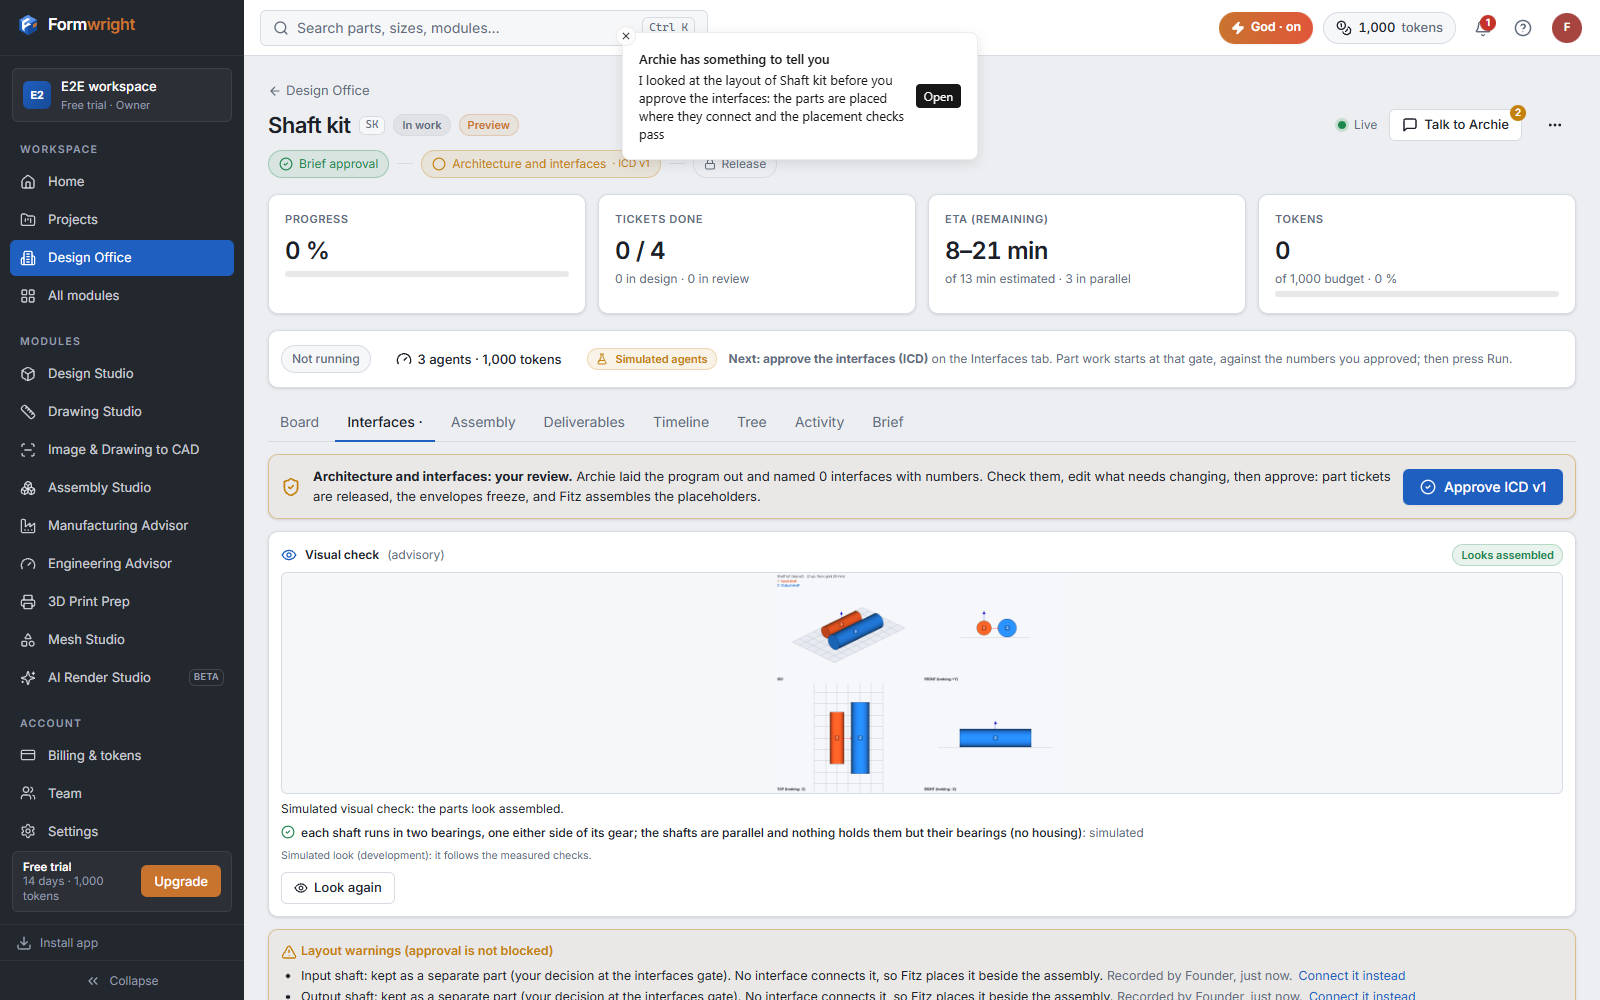
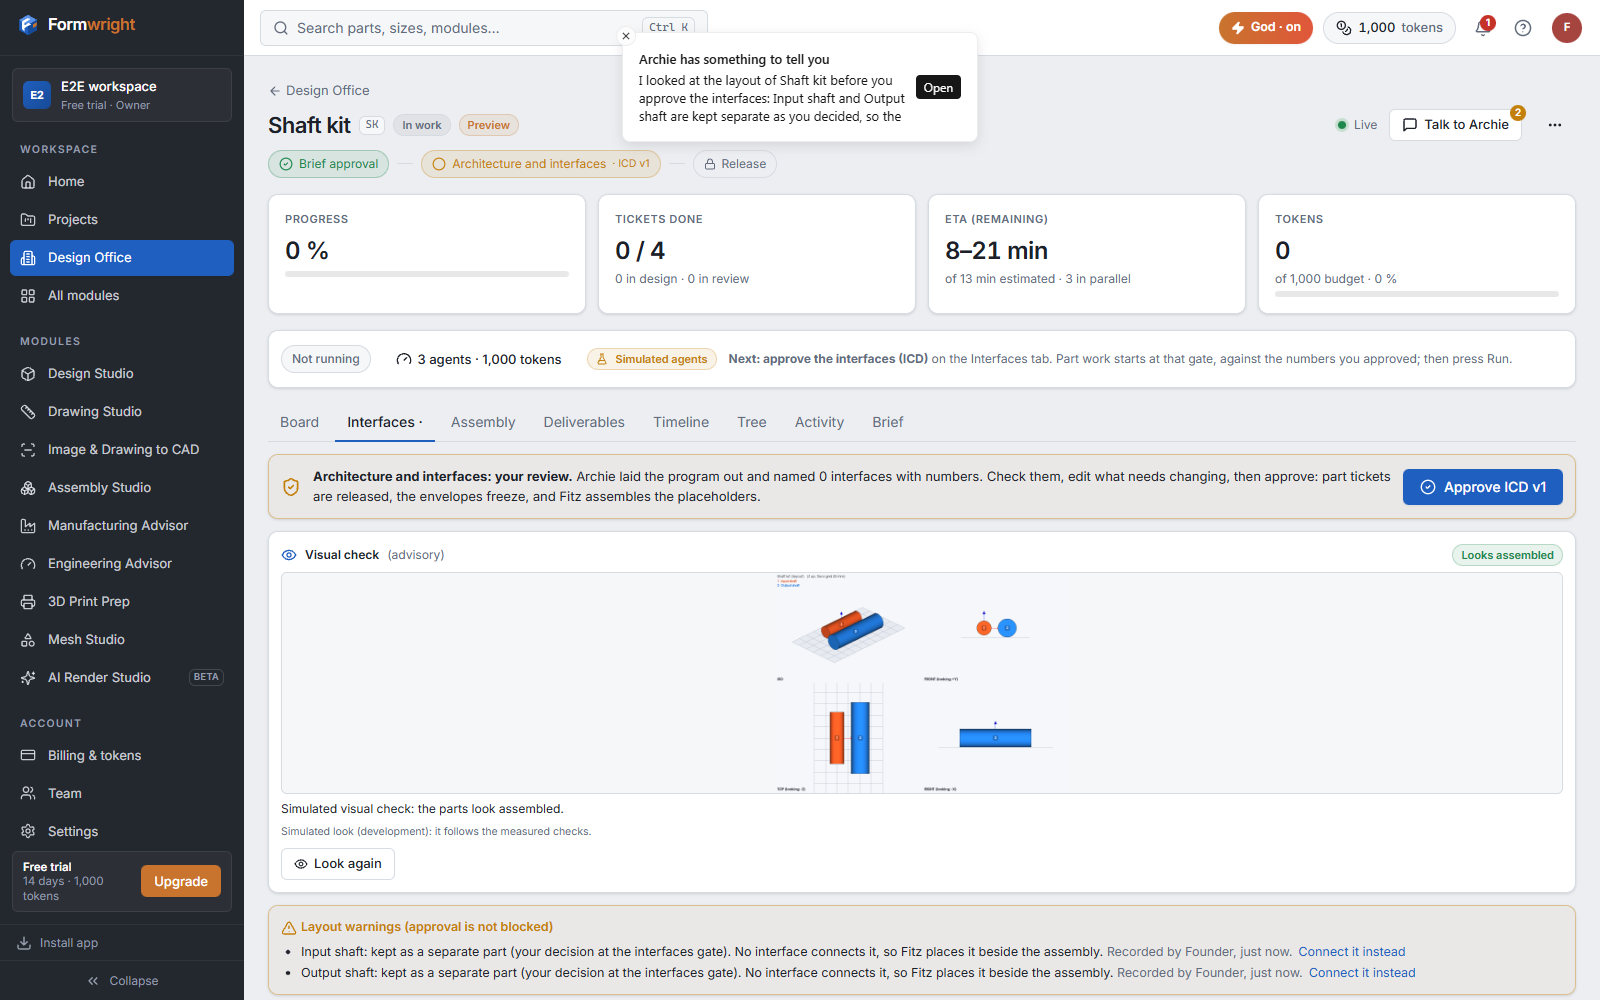
Office polish: no swap clash against a mating gear's placeholder envelope; first build and gates-pass milestones both announced (flaky on main); Gage test on the agent path after office-direct; report

Changed region(s): [[0.1562, 0.806, 1.0, 1.0], [0.375, 0.062, 0.625, 0.155]]

diff --git a/src/aicad/office/program_assembly.py b/src/aicad/office/program_assembly.py
@@ -384,6 +384,7 @@ async def swap(aroot: Path, org_id: str, prog: dict[str, Any], updates: dict[str
                 keep = [c for c in clashes if _item_of(final, c["a"]) not in items and _item_of(final, c["b"]) not in items]
                 try:
                     fresh = await aservice.stack_clashes(aroot, org_id, final, ids)
+                    fresh = [c for c in fresh if not _envelope_mesh(final, ifaces, c)]
                     clashes = keep + [{**c, "volume_mm3": round(float(c["volume_mm3"]), 3)} for c in fresh]
                 except aservice.WorkerError:
                     checked = False
@@ -471,6 +472,21 @@ def summarize(parts: dict[str, dict[str, Any]], final: dict[str, Any] | None,
         s += f", {stacks} fastener stack{'s' if stacks != 1 else ''}"
     _ = clashes
     return s + "."
+
+
+def _envelope_mesh(adoc: dict[str, Any], ifaces: list[dict[str, Any]], c: dict[str, Any]) -> bool:
+    """A real gear against the *placeholder* of the gear it meshes with: the placeholder is the tip-circle envelope,
+    so the real teeth always overlap it. That is not a clash (it says nothing about the real mesh, which the
+    whole-program check measures once both are real); reporting it sent a correct pinion back to its designer when
+    it happened to be swapped in before its gear."""
+    by = {i["id"]: i for i in adoc["instances"]}
+    a, b = by.get(c["a"]), by.get(c["b"])
+    if a is None or b is None:
+        return False
+    ia, ib = (a.get("office") or {}).get("item"), (b.get("office") or {}).get("item")
+    if not any(f["kind"] == "gear_mesh" and {f["a"]["item"], f["b"]["item"]} == {ia, ib} for f in ifaces):
+        return False
+    return str(a.get("part", "")).startswith("h_") != str(b.get("part", "")).startswith("h_")
 
 
 def _item_of(adoc: dict[str, Any] | None, iid: str) -> str | None:

diff --git a/src/aicad/office/service.py b/src/aicad/office/service.py
@@ -502,13 +502,15 @@ def sync_studio(root: Path, doc: dict[str, Any], info: dict[str, dict[str, Any]]
             changed = True
             old_ms = before[0]
             t["progress"] = estimates.progress_of(t["milestones"])
+            # both can arrive in one sync (the build passed at once): say them in the order they happened (the
+            # first build was silently skipped before, a flaky test on main)
+            if "first_build" in ms and "first_build" not in old_ms:
+                emit(root, doc, "ticket.milestone", f"{_label(t)}: first build in the Design Studio "
+                     f"({t['progress']} %).", STUDIO_ACTOR, t["id"], milestone="first_build", reached=True,
+                     progress=t["progress"])
             if "gates_pass" in ms and "gates_pass" not in old_ms:
                 emit(root, doc, "ticket.milestone", f"{_label(t)}: the latest build passes the gating checks "
                      f"({t['progress']} %).", STUDIO_ACTOR, t["id"], milestone="gates_pass", reached=True,
-                     progress=t["progress"])
-            elif "first_build" in ms and "first_build" not in old_ms:
-                emit(root, doc, "ticket.milestone", f"{_label(t)}: first build in the Design Studio "
-                     f"({t['progress']} %).", STUDIO_ACTOR, t["id"], milestone="first_build", reached=True,
                      progress=t["progress"])
             elif "gates_pass" in old_ms and "gates_pass" not in ms:
                 emit(root, doc, "ticket.milestone", f"{_label(t)}: the latest build fails a gating check "

diff --git a/tests/test_office_phase6_layout.py b/tests/test_office_phase6_layout.py
@@ -172,7 +172,8 @@ def test_gearbox_program_assembles_with_no_clash(office: Any) -> None:  # noqa: 
     assert v["status"] == "complete", [(t["title"], t["column"], (t.get("run") or {}).get("status")) for t in v["tickets"]]
     st = v["assembly"]
     assert st["clashes"] == [] and not any(p["kind"] == "placeholder" for p in st["parts"].values()), st.get("summary")
-    assert st["summary"].startswith("7 real parts and 0 placeholders") and st["summary"].endswith("0 clashes.")
+    # the clash count has one source (program_assembly.clash_status), never the integration summary
+    assert st["summary"].startswith("7 real parts and 0 placeholders") and "clash" not in st["summary"]
     aroot = _aroot(c)
     final = astore.load(aroot, st["final"])
     # every instance of the final assembly, its own sub-assemblies' included, in the program frame

diff --git a/tests/test_office_orchestrator.py b/tests/test_office_orchestrator.py
@@ -327,7 +327,10 @@ def test_concurrency_cap_is_never_exceeded(office: Any) -> None:
     assert orchestrator._runners.get(pid) is None or orchestrator._runners[pid].max_seen <= 2
 
 
-def test_gage_sends_back_then_approves_and_caps_retries(office: Any) -> None:
+def test_gage_sends_back_then_approves_and_caps_retries(office: Any, monkeypatch: pytest.MonkeyPatch) -> None:
+    from aicad.office import direct
+
+    monkeypatch.setenv(direct.ENV, "0")  # the design agent's path (shafts are otherwise built from the ICD, no AI)
     c = office
     plan = {"source": "standard", "summary": "", "assumptions": [], "subassemblies": [
         {"name": "Shafts", "description": "", "parts": [

diff --git a/docs/reports/office-polish.md b/docs/reports/office-polish.md
@@ -39,9 +39,11 @@ could never be approved. `test_gage_sends_back_then_approves_and_caps_retries` (
   "Keep all N as separate parts" button. Kept parts are listed under Layout warnings ("Recorded by Founder, just
   now") with a "Connect it instead" link. "Fix with Archie" is hidden when only unconnected parts remain, because it
   can't fix those. The program page hint and Archie's "Needs you" line both mention the option.
-- **The Gage test passes through this path.** The only change to it is one line:
+- **The Gage test passes through this path.** The acknowledgement is one line:
   `_program(c, "gage@x.com", plan, separate=True)`. `_program` posts `/icd/separate` before approving. The gate is
-  not weakened.
+  not weakened. After the merge of `wip/office-direct`, the test also sets `FW_OFFICE_DIRECT=0`. Its two shafts would
+  otherwise be built from the ICD without AI, and Gage would never send them back. That is the agent path the test
+  is about.
 
 ## 2. Archie and office message honesty
 **(a) The heading follows the verdict.** Before: "It doesn't look right:" was used for every non-clean layout look,
@@ -133,6 +135,15 @@ that main (wip/agent-cost) has since fixed the meter: it now agrees with the age
   part"). The design turn then claims a slot like any other, so a lookup can never smuggle a design turn past the
   cap.
 - `Runner.slots_used()` counts only slot-taking work. `max_seen` now measures the slot cap.
+- Two races surfaced once the timing changed, and both are fixed:
+  1. `program_assembly._envelope_mesh`. A real gear swapped in before its mating gear was checked against that
+     gear's *placeholder*, the tip-circle envelope. The real teeth always overlap it (136 mm³), so a correct pinion
+     was sent back to its designer twice and cost 60 tokens in `test_founders_program_needs_no_ai`. Such pairs (real
+     against placeholder, joined by a `gear_mesh` interface) are no longer swap clashes. The whole-program check
+     measures the real mesh once both are real.
+  2. `service.sync_studio`. When the first build and "gates pass" arrived in one sync, only "gates pass" was
+     announced. Both are now said, in order. `test_program_runs_end_to_end` failed on pristine main about one run in
+     two (checked in a detached main worktree); it now passes 3 of 3.
 
 ## Tests
 - New `tests/test_office_polish.py` (12, pure): gate decision (per part, all, undo, history, view, freeze,
@@ -140,7 +151,7 @@ that main (wip/agent-cost) has since fixed the meter: it now agrees with the age
   heading per verdict, human names / `named()` / `plain_names` / user words untouched / card lines, `clash_status`,
   retry label and stale proposals, unplaced parts said plainly, stop advice, `default_budget`, budget failure note.
 - `tests/test_office_orchestrator.py`:
-  - the Gage test passes via `separate=True`;
+  - the Gage test passes via `separate=True` (plus `FW_OFFICE_DIRECT=0` after the office-direct merge);
   - concurrency test: "searching" is outside the slots, `max_seen <= 2`;
   - new `test_hex_lookups_run_outside_the_agent_slots`: concurrency 1 with the slot held, and the bolt is approved
     by Hex meanwhile;
@@ -149,7 +160,9 @@ that main (wip/agent-cost) has since fixed the meter: it now agrees with the age
     then finishes.
 - `tests/test_assembly_visual.py`: the names `Ball bearing 6204 #4` and `Pinion meshes with Gear` are updated, the
   row-layout proposal includes `keep_separate`, and the patched name function is updated.
-- Results after `git merge main` (111566f): see the final lines below. `ruff check src tests` is clean.
+- `tests/test_office_phase6_layout.py`: the summary no longer ends "0 clashes." That count had not been measured.
+  The test now checks that the summary carries no clash count; `clashes == []` is still asserted.
+- After `git merge main` (111566f): `tests/test_office*.py`, `test_assembly_visual.py` and `test_agent_cost.py` give **157 passed**. `ruff check src tests` is clean.
   `npx tsc --noEmit` is clean and `npx vite build` passes.
 
 ## Browser check (port 8799, simulated agents, no LLM)
@@ -164,6 +177,9 @@ Screenshots were read:
 - `3-history.png`: the history entry "Founder kept Input shaft and Output shaft as separate parts…".
 - `5-archie-stale-action.png`: Archie's first message still offers the housing / base plate re-plans. The
   keep-separate proposal shows **No longer needed**.
+- `6-archie-relook.png` (final code): Archie's second message reads "Input shaft and Output shaft are kept
+  separate as you decided, so there is nothing to assemble and no interface to check". The visual check asks about
+  no bearing relation for the kit.
 - API: `problems []` and two warnings; 0 console or page errors.
 - Seen and fixed from the shots:
   - Archie's re-look said "the parts are placed where they connect" for a kit. It now says they are kept separate,
